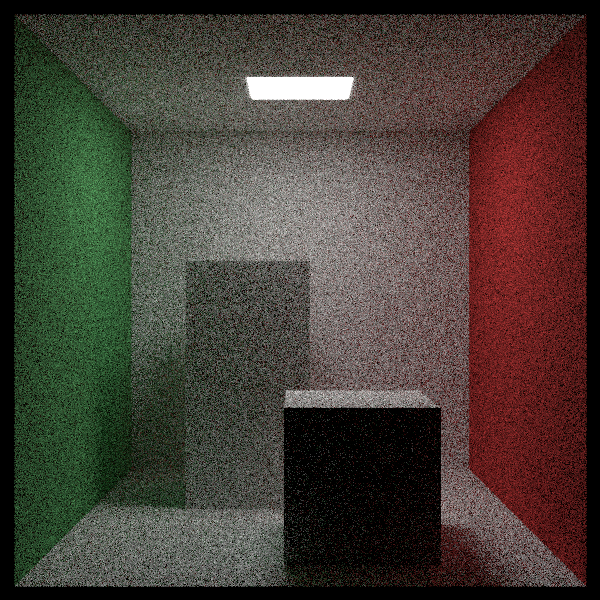
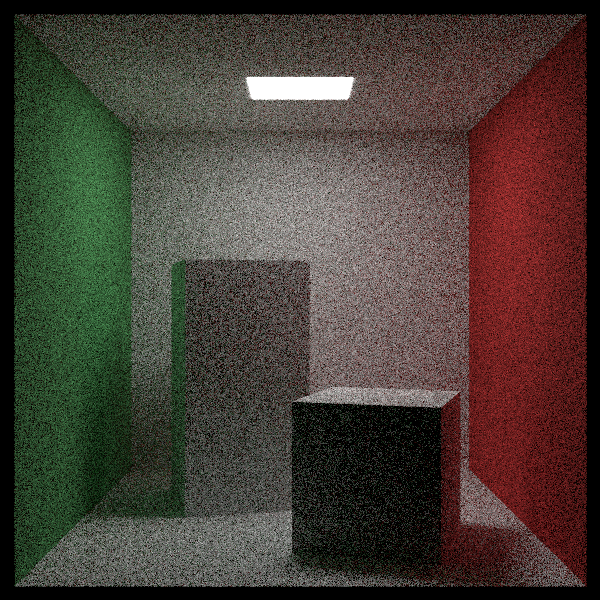
translation

diff --git a/src/hittables/rotate_y.rs b/src/hittables/rotate_y.rs
@@ -1,0 +1,103 @@
+use core::f64;
+use std::{fmt::Display, sync::Arc};
+
+use crate::primitives::{point3, ray, vec3, Aabb, Interval, Ray};
+
+use super::{HitRecord, Hittable};
+
+pub struct RotateY {
+    object: Arc<dyn Hittable>,
+    sin_theta: f64,
+    cos_theta: f64,
+    bbox: Aabb,
+}
+
+impl RotateY {
+    pub fn new(object: Arc<dyn Hittable>, angle: f64) -> Self {
+        let (sin_theta, cos_theta) = angle.to_radians().sin_cos();
+        let bbox = object.bounding_box();
+
+        let mut max = point3(f64::INFINITY, f64::INFINITY, f64::INFINITY);
+        let mut min = point3(f64::NEG_INFINITY, f64::NEG_INFINITY, f64::NEG_INFINITY);
+
+        for i in (0..2).map(f64::from) {
+            for j in (0..2).map(f64::from) {
+                for k in (0..2).map(f64::from) {
+                    let x = i * bbox.x.max + (1.0 - i) * bbox.x.min;
+                    let y = j * bbox.y.max + (1.0 - i) * bbox.y.min;
+                    let z = k * bbox.z.max + (1.0 - i) * bbox.z.min;
+
+                    let new_x = cos_theta * x + sin_theta * z;
+                    let new_z = -sin_theta * x + cos_theta * z;
+
+                    let tester = vec3(new_x, y, new_z);
+
+                    min.x = min.x.min(tester.x);
+                    max.x = max.x.max(tester.x);
+
+                    min.y = min.y.min(tester.y);
+                    max.y = max.y.max(tester.y);
+
+                    min.z = min.z.min(tester.z);
+                    max.z = max.z.max(tester.z);
+                }
+            }
+        }
+
+        Self {
+            object,
+            sin_theta,
+            cos_theta,
+            bbox: Aabb::from_points(min, max),
+        }
+    }
+}
+
+impl Hittable for RotateY {
+    fn hit(&self, r: &Ray, ray_t: &Interval) -> Option<HitRecord> {
+        // transform to object space
+        let orig = point3(
+            self.cos_theta * r.orig.x - self.sin_theta * r.orig.z,
+            r.orig.y,
+            self.sin_theta * r.orig.x + self.cos_theta * r.orig.z,
+        );
+
+        let dir = vec3(
+            self.cos_theta * r.dir.x - self.sin_theta * r.dir.z,
+            r.dir.y,
+            self.sin_theta * r.dir.x + self.cos_theta * r.dir.z,
+        );
+
+        let rotated_ray = ray(orig, dir, r.time);
+
+        // check collision
+
+        self.object.hit(&rotated_ray, ray_t).map(|mut rec| {
+            rec.p = point3(
+                self.cos_theta * rec.p.x + self.sin_theta * rec.p.z,
+                rec.p.y,
+                -self.sin_theta * rec.p.x + self.cos_theta * rec.p.z,
+            );
+            rec.normal = point3(
+                self.cos_theta * rec.normal.x + self.sin_theta * rec.normal.z,
+                rec.normal.y,
+                -self.sin_theta * rec.normal.x + self.cos_theta * rec.normal.z,
+            );
+            rec
+        })
+    }
+
+    fn bounding_box(&self) -> &crate::primitives::Aabb {
+        &self.bbox
+    }
+}
+
+impl Display for RotateY {
+    fn fmt(&self, f: &mut std::fmt::Formatter<'_>) -> std::fmt::Result {
+        write!(f, "Rotate-Y {}", self.object)
+    }
+}
+
+pub fn rotate_y(object: Arc<dyn Hittable>, angle: f64) -> Arc<RotateY> {
+    Arc::new(RotateY::new(object, angle))
+}

diff --git a/src/example_worlds.rs b/src/example_worlds.rs
@@ -2,7 +2,7 @@ use std::sync::Arc;
 
 use crate::{
     camera::{Camera, CameraOptions},
-    hittables::{cube, quad, sphere, sphere_moving, triangle, BvhNode, HittableList},
+    hittables::{cube, quad, rotate_y, sphere, sphere_moving, translate, triangle, BvhNode, Hittable, HittableList},
     materials::{dielectric, diffuse_light_from_color, lambertian, lambertian_from_color, metal, Material},
     primitives::{color, point3, vec3, Color, Point3},
     rand::{self, rand},
@@ -290,16 +290,22 @@ pub fn cornell_box() -> (HittableList, Camera) {
         white.clone(),
     ));
 
-    world.add(cube(
-        point3(130.0, 0.0, 65.0),
-        point3(295.0, 165.0, 230.0),
+    let mut box1: Arc<dyn Hittable> = cube(
+        point3(0.0, 0.0, 0.0),
+        point3(165.0, 330.0, 165.0),
         white.clone(),
-    ));
-    world.add(cube(
-        point3(265.0, 0.0, 295.0),
-        point3(430.0, 330.0, 460.0),
+    );
+    box1 = rotate_y(box1, 15.0);
+    box1 = translate(box1, vec3(265.0, 0.0, 295.0));
+    world.add(box1);
+    let mut box1: Arc<dyn Hittable> = cube(
+        point3(0.0, 0.0, 0.0),
+        point3(165.0, 165.0, 165.0),
         white.clone(),
-    ));
+    );
+    box1 = rotate_y(box1, -18.0);
+    box1 = translate(box1, vec3(130.0, 0.0, 65.0));
+    world.add(box1);
 
     let cam = Camera::new(CameraOptions {
         aspect_ratio: 1.0,

diff --git a/src/hittables/translate.rs b/src/hittables/translate.rs
@@ -1,0 +1,49 @@
+use std::{fmt::Display, sync::Arc};
+
+use crate::primitives::{Aabb, Interval, Ray, Vec3};
+
+use super::{HitRecord, Hittable};
+
+pub struct Translate {
+    object: Arc<dyn Hittable>,
+    offset: Vec3,
+    bbox: Aabb,
+}
+
+impl Translate {
+    pub fn new(object: Arc<dyn Hittable>, offset: Vec3) -> Self {
+        let bbox = object.bounding_box() + offset;
+        Self {
+            object,
+            offset,
+            bbox,
+        }
+    }
+}
+
+impl Hittable for Translate {
+    fn hit(&self, r: &Ray, ray_t: &Interval) -> Option<HitRecord> {
+        // move the ray backwards
+        let offset_ray = Ray::new(r.orig - self.offset, r.dir, r.time);
+
+        // check for a hit and move the hit position forward if there was a hit
+        self.object.hit(&offset_ray, ray_t).map(|mut rec| {
+            rec.p += self.offset;
+            rec
+        })
+    }
+
+    fn bounding_box(&self) -> &Aabb {
+        &self.bbox
+    }
+}
+
+impl Display for Translate {
+    fn fmt(&self, f: &mut std::fmt::Formatter<'_>) -> std::fmt::Result {
+        write!(f, "Translate {} by {}", self.object, self.offset)
+    }
+}
+
+pub fn translate(object: Arc<dyn Hittable>, offset: Vec3) -> Arc<Translate> {
+    Arc::new(Translate::new(object, offset))
+}

diff --git a/src/hittables/mod.rs b/src/hittables/mod.rs
@@ -2,7 +2,9 @@ mod bvh_node;
 mod hittable;
 mod hittable_list;
 mod quad;
+mod rotate_y;
 mod sphere;
+mod translate;
 mod triangle;
 
 use std::sync::Arc;
@@ -11,7 +13,9 @@ pub use bvh_node::*;
 pub use hittable::*;
 pub use hittable_list::*;
 pub use quad::*;
+pub use rotate_y::*;
 pub use sphere::*;
+pub use translate::*;
 pub use triangle::*;
 
 use crate::{
@@ -32,9 +36,9 @@ pub fn cube(a: Point3, b: Point3, mat: Arc<dyn Material>) -> Arc<HittableList> {
     sides.add(quad(point3(min.x, min.y, max.z), dx, dy, mat.clone())); // front
     sides.add(quad(point3(max.x, min.y, max.z), -dz, dy, mat.clone())); // right
     sides.add(quad(point3(max.x, min.y, min.z), -dx, dy, mat.clone())); // back
-    sides.add(quad(point3(min.x, min.y, min.z), dx, dy, mat.clone())); // left
+    sides.add(quad(point3(min.x, min.y, min.z), dz, dy, mat.clone())); // left
     sides.add(quad(point3(min.x, max.y, max.z), dx, -dz, mat.clone())); // top
-    sides.add(quad(point3(min.x, min.y, min.z), dx, dz, mat)); // botton
+    sides.add(quad(point3(min.x, min.y, min.z), dx, dz, mat)); // bottom
 
     Arc::new(sides)
 }

diff --git a/src/primitives/aabb.rs b/src/primitives/aabb.rs
@@ -1,6 +1,6 @@
-use std::fmt;
+use std::{fmt, ops::Add};
 
-use super::{interval, Interval, Point3, Ray};
+use super::{interval, Interval, Point3, Ray, Vec3};
 
 #[derive(Debug, Clone)]
 pub struct Aabb {
@@ -108,6 +108,13 @@ impl Aabb {
         }
 
         self
+    }
+}
+
+impl Add<Vec3> for &Aabb {
+    type Output = Aabb;
+    fn add(self, rhs: Vec3) -> Self::Output {
+        Aabb::new(self.x.clone() + rhs.x, self.y.clone() + rhs.y, self.z.clone() + rhs.z)
     }
 }
 

diff --git a/src/primitives/interval.rs b/src/primitives/interval.rs
@@ -1,4 +1,4 @@
-use std::fmt;
+use std::{fmt, ops::Add};
 
 #[derive(Debug, Clone, PartialEq)]
 pub struct Interval {
@@ -42,6 +42,13 @@ impl Interval {
             min: self.min - padding,
             max: self.max + padding,
         }
+    }
+}
+
+impl Add<f64> for Interval {
+    type Output = Interval;
+    fn add(self, rhs: f64) -> Self::Output {
+        Interval::new(self.min + rhs, self.max + rhs)
     }
 }
 

diff --git a/src/main.rs b/src/main.rs
@@ -25,7 +25,7 @@ fn main() {
     // perlin_spheres();
     // quads();
     // simple_light();
-    // run(cornell_box(), "cornel_box");
+    run(cornell_box(), "cornel_box");
     // run(triangles(), "triangles");
-    run(room(), "room");
+    // run(room(), "room");
 }
